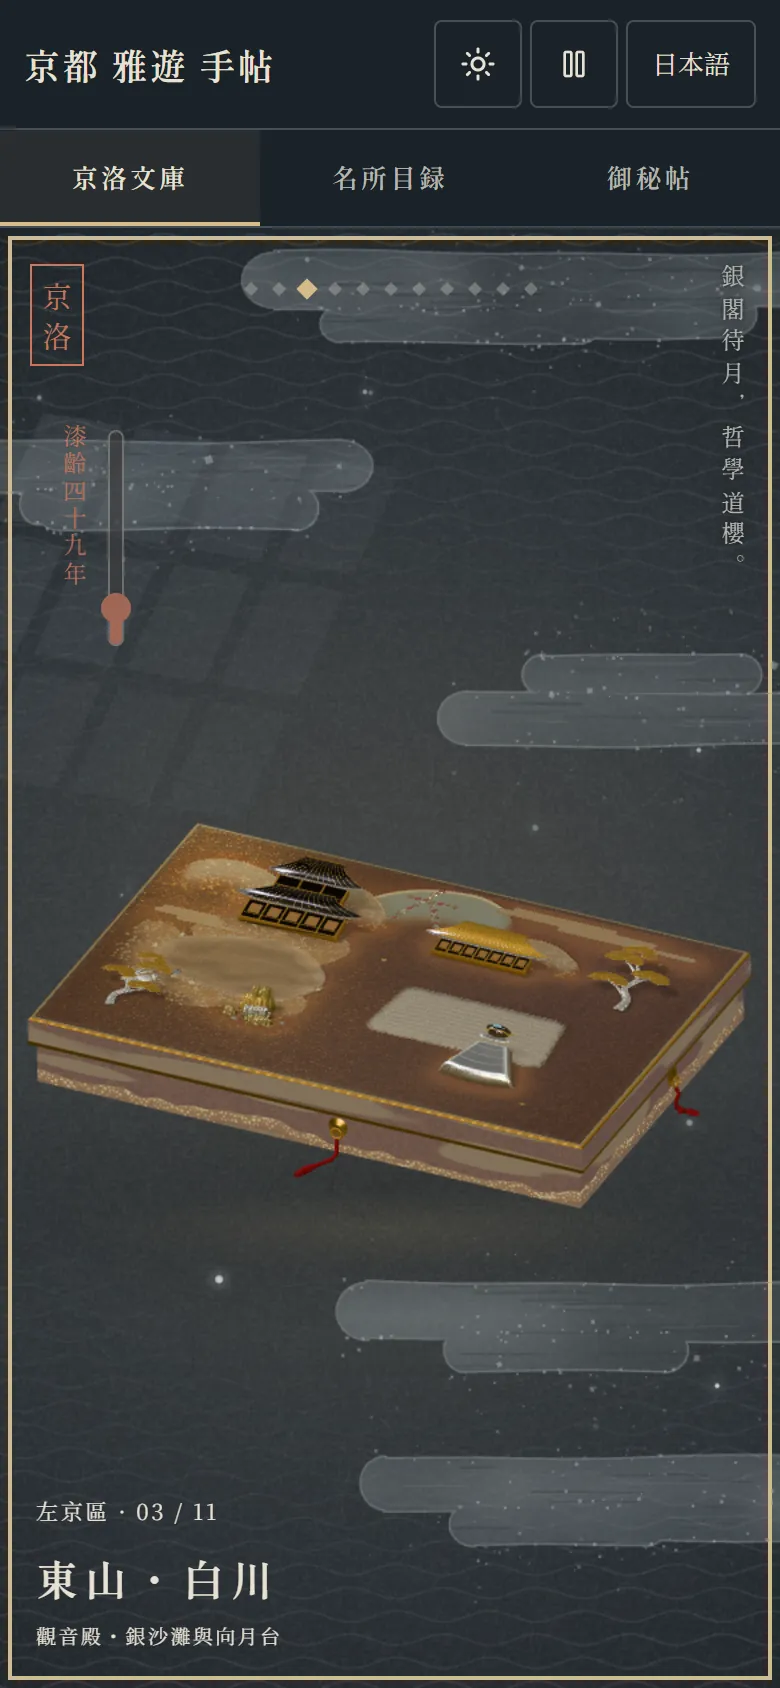
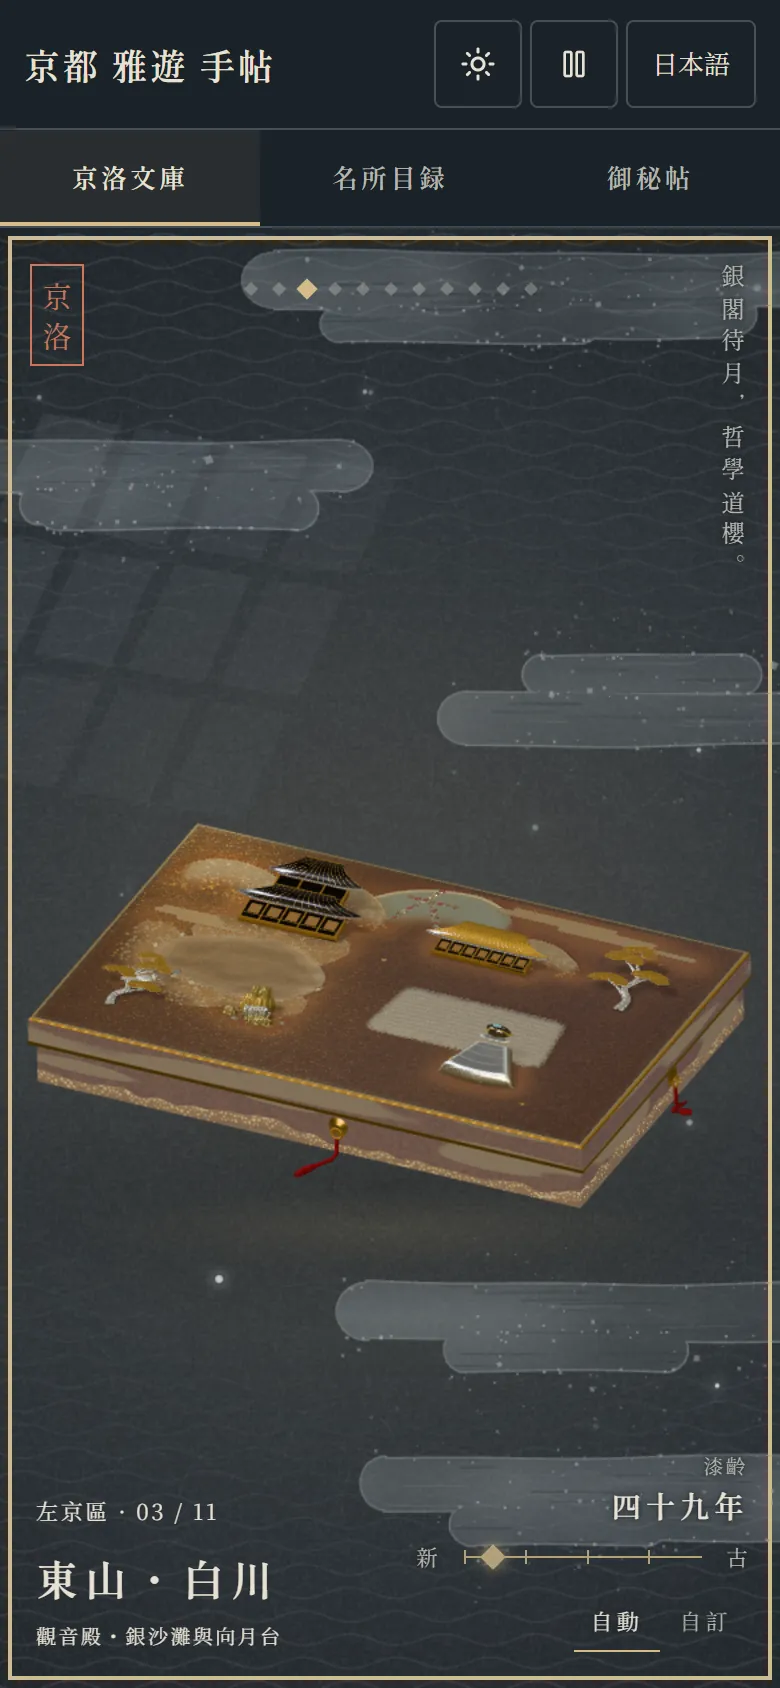
feat(bunko): the era panel: auto and by hand side by side, bottom right, mirroring the ward caption
The lid's age moves out of the corner under the seal (a browser-default vertical slider) into a panel at
bottom right: a small 漆齡 kicker, the age in years, a gold scale from 新 to 古 with a tick a century and
a diamond thumb, and two modes. 自動 is the original (the demonstration once, then the idle breathing; the
thumb follows); 自訂 holds an age, and moving the scale or using its keys switches to it; 自動 hands the
age back and runs the demonstration again. The markup is in template.ts; it hides on the still picture,
in a close-up (the zoom reset takes the corner) and while the lid is open. README pictures and OG re-shot.

diff --git a/src/studies/toji/study.js b/src/studies/toji/study.js
@@ -44,25 +44,32 @@ let dragOffset=0,dragAnimation=null,kick=0;
 // Close-up: current and target zoom/pan; a pinch or pan writes both, the tick eases current toward target.
 let zoom=1,zoomTarget=1,panX=0,panY=0,panTX=0,panTY=0,pinch=null,lastTap=null;
 let lastActivity=-Infinity,idlePhase=0,autoPlaying=false;
-// The lid's age in years while it is being shown off (null: the age it was made with). The demonstration runs it once from a lid fresh
-// from the workshop to the Hatsune set's age (plate/age.js hatsuneAge: from the year it was made to now); the unattended cabinet breathes between the two. A small label says the year.
-const HATSUNE_NOW=hatsuneAge();let years=null;
-const era=document.createElement('p');era.className='era';era.setAttribute('aria-hidden','true');root.querySelector('.seal')?.after(era);
-// The age by hand (chain-2 V8): a slider under the label, from a lid fresh from the workshop to the Hatsune set's age. Once moved it holds
-// the age; the demonstration and the unattended breathing no longer change it. It starts where the plate does (?years, ?age, else
-// AGE_DEFAULT: plate/age.js), and follows the demonstration until it is moved. A URL age past the Hatsune set's (?age=1, ?years=1000)
-// stretches the slider to reach it, so the slider and the lid always show the same age (chain-3 P2). A debugging URL: ?age=1 reads as
+// The lid's age in years while it is shown (null: the age it was made with). Two ways to set it, side by side in the era panel
+// (template.ts, bottom right, mirroring the ward caption; chain-3):
+//   auto    the original: the demonstration runs it once from a lid fresh from the workshop to the Hatsune set's age (plate/age.js
+//           hatsuneAge), and the unattended cabinet breathes between the two. The scale's thumb follows.
+//   custom  the age by hand (chain-2 V8): moving the scale, or pressing 自訂, holds an age; the demonstration and the breathing no longer
+//           change it. Pressing 自動 hands the age back and runs the demonstration once.
+// The scale starts where the plate does (?years, ?age, else AGE_DEFAULT). A URL age past the Hatsune set's (?age=1, ?years=1000)
+// stretches the scale to reach it, so the scale and the lid always show the same age (chain-3 P2). A debugging URL: ?age=1 reads as
 // about 3100 years (plate/age.js yearsFromAge stops just short of 1), and the demonstration still runs only to the Hatsune set's age.
+const HATSUNE_NOW=hatsuneAge();let years=null;
 const startYears=Math.round(yearsFromAge(typeof location!=='undefined'?ageFromSearch(location.search):AGE_DEFAULT));
-let manualYears=null;
-const eraRange=document.createElement('input');eraRange.type='range';eraRange.className='era-range';eraRange.min='0';eraRange.max=String(Math.max(HATSUNE_NOW,startYears));eraRange.step='1';eraRange.value=String(startYears);
-era.after(eraRange);
+let manualYears=null,eraLanguage=null;
+const ERA_TICK_YEARS=100; // one tick on the scale a century
+const eraPanel=$('era-panel'),era=$('era'),eraRange=/** @type {HTMLInputElement} */($('era-range')),eraMax=Math.max(HATSUNE_NOW,startYears);
+eraRange.max=String(eraMax);eraRange.value=String(startYears);eraRange.style.setProperty('--era-tick',`${ERA_TICK_YEARS/eraMax*100}%`);
 const syncEra=()=>{
-  era.hidden=years===null;if(years!==null)era.textContent=`${language==='ja'?'漆齢':'漆齡'}${kanjiNumber(years,language)}年`;
-  const shown=Math.round(years??startYears);if(eraRange.value!==String(shown))eraRange.value=String(shown);
-  const label=translate('bunko_age',language),valueText=`${kanjiNumber(shown,language)}年`;
-  if(eraRange.getAttribute('aria-label')!==label)eraRange.setAttribute('aria-label',label);
-  if(eraRange.getAttribute('aria-valuetext')!==valueText)eraRange.setAttribute('aria-valuetext',valueText);
+  if(eraLanguage!==language){
+    eraLanguage=language;
+    for(const [id,key] of [['era-kicker','bunko_age_kicker'],['era-new','bunko_age_new'],['era-old','bunko_age_old'],['era-auto','bunko_age_auto'],['era-custom','bunko_age_custom']])$(id).textContent=translate(key,language);
+    $('era-mode').setAttribute('aria-label',translate('bunko_age_mode',language));eraRange.setAttribute('aria-label',translate('bunko_age',language));
+  }
+  const shown=Math.round(years??startYears),manual=manualYears!==null,text=`${kanjiNumber(shown,language)}年`;
+  if(era.textContent!==text){era.textContent=text;eraRange.setAttribute('aria-valuetext',text);}
+  if(eraRange.value!==String(shown))eraRange.value=String(shown);
+  const mode=manual?'custom':'auto';
+  if(eraPanel.dataset.mode!==mode){eraPanel.dataset.mode=mode;$('era-auto').setAttribute('aria-pressed',String(!manual));$('era-custom').setAttribute('aria-pressed',String(manual));}
 };syncEra();
 /** The demonstration ends: by itself after demoDurationSec, or when the age slider takes over. */
 function endDemo(){demoStart=0;hover=false;tx=ty=0;notify();}
@@ -442,6 +449,9 @@ listen(canvas,'pointerup',e=>{
   if(e.pointerType==='touch')release();
 });
 listen(eraRange,'input',()=>{manualYears=Number(eraRange.value);years=manualYears;if(demoStart)endDemo();syncEra();schedule();});
+// The two modes (the era panel): 自訂 holds the age shown now; 自動 hands it back and runs the demonstration once.
+listen($('era-custom'),'click',()=>{if(manualYears!==null)return;manualYears=Math.round(years??startYears);years=manualYears;if(demoStart)endDemo();syncEra();schedule();});
+listen($('era-auto'),'click',()=>{if(manualYears===null)return;manualYears=null;years=null;syncEra();demo();schedule();});
 listen(canvas,'focus',()=>{hover=true;schedule();});listen(canvas,'blur',release);
 listen(canvas,'keydown',e=>{
   if(e.key==='Escape'&&isZoomed(zoomTarget)){e.preventDefault();resetZoom();return;}
@@ -490,7 +500,7 @@ return {
     if(destroyed)return;destroyed=true;
     events.abort();intersection.disconnect();resize.disconnect();clearTimeout(ghostTimer);ghostAnimations.forEach(a=>a.cancel());ghosts.forEach(ghost=>ghost.remove());
     switchAnimation?.cancel();dragAnimation?.cancel();endDrag();cancelAnimationFrame(frame);frame=0;
-    dispose?.();backdrop.destroy();render=null;updateMesh=null;era.remove();eraRange.remove();
+    dispose?.();backdrop.destroy();render=null;updateMesh=null;
   },
 };
 }

diff --git a/src/studies/toji/bunko.css b/src/studies/toji/bunko.css
@@ -20,15 +20,33 @@
 .bunko canvas[data-plate="true"] { filter:none; }
 .bunko .loading { position:absolute; inset:0; display:grid; place-content:center; background:var(--panel); padding:40px; text-align:center; line-height:2; }
 .bunko .loading[hidden] { display:none; }
-.bunko { --era-left:28px; --era-top:98px; --era-range-gap:16px; }
-.bunko .era { position:absolute; left:var(--era-left); top:var(--era-top); margin:0; color:var(--entry-seal); font:12px/1.5 var(--bunko-title); letter-spacing:.14em; writing-mode:vertical-rl; pointer-events:none; opacity:.85; }
-.bunko .era[hidden] { display:none; }
-/* The age by hand (study.js eraRange): a thin vertical slider beside the age label, older at the top. */
-.bunko .era-range { position:absolute; left:calc(var(--era-left) + var(--era-range-gap)); top:calc(var(--era-top) + 2px); width:28px; height:110px; margin:0; writing-mode:vertical-lr; direction:rtl; accent-color:var(--entry-seal); opacity:.7; cursor:ns-resize; touch-action:none; }
-.bunko .era-range[hidden] { display:none; }
-/* The still picture does not age: no age label or slider over it (renderer.js data-renderer). */
-.bunko:has(#scene[data-renderer="static"]) :is(.era, .era-range) { display:none; }
+/* The era panel (template.ts, study.js syncEra): the lid's age, bottom right, mirroring the ward caption at bottom left. A small kicker,
+   the age in years, a gold scale from new (新) to the Hatsune set's age (古) with a tick a century, and the two modes, auto and by hand. */
+.bunko { --era-scale-w:168px; --era-thumb:9px; }
+.bunko .era-panel { position:absolute; right:30px; bottom:24px; display:flex; flex-direction:column; align-items:flex-end; gap:4px; color:var(--ink); text-shadow:0 0 2px var(--paper),0 0 7px var(--paper); transition:opacity .3s; }
+.bunko .era-panel>small { font-size:10px; letter-spacing:.12em; color:var(--muted); }
+.bunko .era { font:600 17px/1.2 var(--bunko-title); letter-spacing:.14em; font-variant-numeric:tabular-nums; }
+.bunko .era-panel[data-mode="custom"] .era { color:var(--gold); }
+.bunko .era-scale { display:flex; align-items:center; gap:8px; font:11px/1 var(--bunko-title); color:var(--muted); }
+/* The scale: a 1px gold rule and the century ticks drawn on the input itself, inset by half a thumb so a tick sits where the thumb would. */
+.bunko .era-range { appearance:none; -webkit-appearance:none; width:var(--era-scale-w); height:24px; margin:0; background:
+  linear-gradient(var(--gold),var(--gold)) center/calc(100% - var(--era-thumb)) 1px no-repeat,
+  repeating-linear-gradient(90deg,var(--gold) 0 1px,transparent 1px var(--era-tick,25%)) center/calc(100% - var(--era-thumb)) 7px no-repeat;
+  opacity:.8; cursor:ew-resize; touch-action:none; }
+.bunko .era-range::-webkit-slider-runnable-track { height:24px; background:transparent; }
+.bunko .era-range::-moz-range-track { height:24px; background:transparent; }
+.bunko .era-range::-webkit-slider-thumb { -webkit-appearance:none; appearance:none; width:var(--era-thumb); height:var(--era-thumb); margin-top:calc((24px - var(--era-thumb))/2); border:0; background:var(--gold); transform:rotate(45deg); box-shadow:0 0 6px 1px color-mix(in srgb,var(--gold) 60%,transparent); }
+.bunko .era-range::-moz-range-thumb { width:var(--era-thumb); height:var(--era-thumb); border:0; border-radius:0; background:var(--gold); transform:rotate(45deg); box-shadow:0 0 6px 1px color-mix(in srgb,var(--gold) 60%,transparent); }
 .bunko .era-range:hover, .bunko .era-range:focus-visible { opacity:1; }
+.bunko .era-range:focus-visible { outline:2px solid var(--gold); outline-offset:3px; }
+/* The modes: two words, the one in force in gold and underlined; compact, with the touch target kept by the padding. */
+.bunko .era-mode { display:flex; gap:2px; }
+.bunko .era-mode>button { min-height:32px; padding:6px 8px; border:0; border-bottom:1px solid transparent; border-radius:0; background:none; font-size:11px; letter-spacing:.2em; color:var(--muted); text-shadow:inherit; }
+.bunko .era-mode>button:hover { background:none; color:var(--ink); }
+.bunko .era-mode>button[aria-pressed="true"] { color:var(--ink); border-bottom-color:var(--gold); background:none; }
+/* Out of the way when it does not apply: the still picture does not age; a close-up (the zoom reset takes the corner) and an open lid. */
+.bunko:has(#scene[data-renderer="static"]) .era-panel { display:none; }
+.bunko canvas[data-zoomed="true"]~.era-panel, .bunko .stage:not([data-book-state="closed"]):not([data-book-state="switching"]) .era-panel { opacity:0; pointer-events:none; }
 .bunko .seal { position:absolute; left:28px; top:26px; color:var(--entry-seal); border:1px solid var(--entry-seal); font:19px/1.3 var(--bunko-title); padding:5px; pointer-events:none; }
 .bunko .stage-caption { position:absolute; left:30px; bottom:24px; display:flex; flex-direction:column; gap:6px; pointer-events:none; color:var(--ink); }
 .bunko .stage-caption small { font-size:10px; letter-spacing:.12em; }
@@ -83,6 +101,9 @@
   .bunko .cabinet-verse { right:14px; top:18px; font-size:12px; }
   .bunko[data-embedded] #cabinet-context { font-size:11px; max-width:none; }
   .bunko .zoom-reset { right:14px; bottom:16px; }
+  .bunko .era-panel { right:16px; bottom:18px; }
+  .bunko { --era-scale-w:128px; }
+  .bunko .era { font-size:15px; }
 }
 /* While the three.js plate renderer loads, the stage stays open: the words and a breathing gold rule over the backdrop. */
 .bunko .loading[data-kind="plate"] { background:transparent; pointer-events:none; color:var(--ink); }

diff --git a/src/data/i18n.ts b/src/data/i18n.ts
@@ -39,6 +39,12 @@ export const UI_DICT: Record<string, I18nText> = {
   bunko_failed: { zh: "無法啟用 WebGL。請使用支援硬體加速的瀏覽器。", ja: "WebGL を使用できません。ハードウェアアクセラレーション対応のブラウザーでご覧ください。" },
   bunko_zoom_reset: { zh: "回到全景", ja: "全体に戻す" },
   bunko_age: { zh: "漆齡（年）", ja: "漆齢（年）" },
+  bunko_age_kicker: { zh: "漆齡", ja: "漆齢" },
+  bunko_age_mode: { zh: "漆齡的變化", ja: "漆齢の変化" },
+  bunko_age_auto: { zh: "自動", ja: "自動" },
+  bunko_age_custom: { zh: "自訂", ja: "手動" },
+  bunko_age_new: { zh: "新", ja: "新" },
+  bunko_age_old: { zh: "古", ja: "古" },
   bunko_canvas_home: { zh: "{name}文庫：撫過盒面移光，左右拖動或方向鍵換函；點蓋或 Enter 展卷；雙指或 +／− 放大", ja: "{name}の文庫：漆面をなぞると光が移る。左右のドラッグ・矢印キーで函を選択。蓋を押すか Enter で巻を開く。二本指か +／− で拡大" },
   bunko_canvas_study: { zh: "{name}文庫：點擊或 Enter 開盒；方向鍵移光，空白鍵演示；雙指或 +／− 放大", ja: "{name}の文庫：クリック・Enter で蓋を開く。矢印キーで光を移動、スペースキーで実演。二本指か +／− で拡大" },
   lang_switch_label: { zh: "切換日文", ja: "繁体字中国語に切り替え" },

diff --git a/src/studies/toji/template.ts b/src/studies/toji/template.ts
@@ -7,5 +7,10 @@ export const BUNKO_STAGE = `<div class="stage" id="stage">
     <div class="seal" aria-hidden="true">京<br>洛</div>
     <p id="cabinet-verse" class="cabinet-verse" aria-hidden="true"></p>
     <div class="stage-caption"><small id="cabinet-context" aria-live="polite" aria-atomic="true"></small><span id="cabinet-place"></span><small id="cabinet-landmark"></small></div>
+    <div class="era-panel" id="era-panel" data-mode="auto">
+      <small id="era-kicker" aria-hidden="true"></small><span id="era" class="era" aria-hidden="true"></span>
+      <div class="era-scale"><span id="era-new" aria-hidden="true"></span><input id="era-range" class="era-range" type="range" min="0" step="1"><span id="era-old" aria-hidden="true"></span></div>
+      <div class="era-mode" id="era-mode" role="group"><button id="era-auto" type="button" aria-pressed="true"></button><button id="era-custom" type="button" aria-pressed="false"></button></div>
+    </div>
     <button id="zoom-reset" class="zoom-reset" type="button" hidden><span aria-hidden="true">⤡</span></button>
   </div>`;
